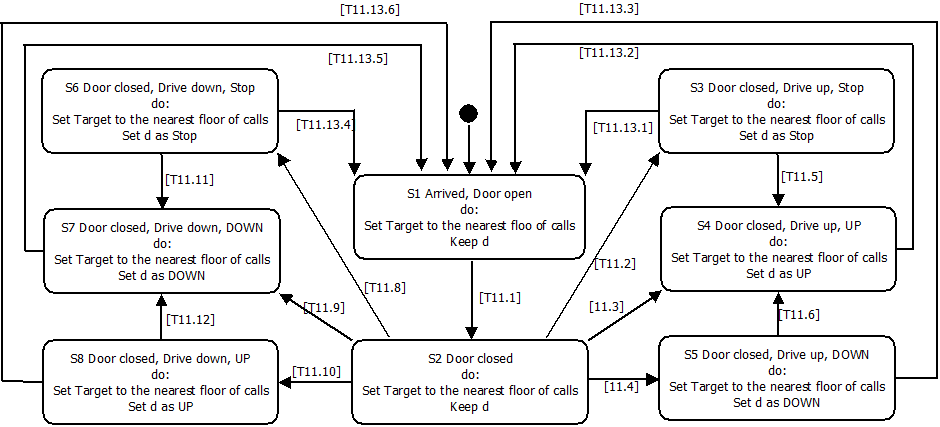
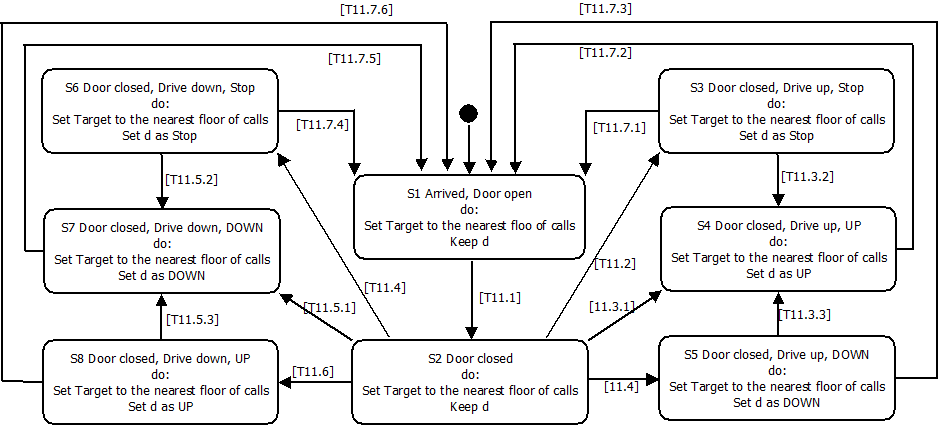
add dispatcher guard conditions

diff --git a/reqs/requirements2.html b/reqs/requirements2.html
@@ -4509,14 +4509,70 @@
         <tr>
           <td valign="top">T11.2<br>
           </td>
-          <td valign="top">Any mDoorClosed[b, r] &#8592;false AND any
-            mAtFloor[f, b]&nbsp; &#8592; true </td>
+          <td valign="top">CurrentDirection &#8592; UP AND&nbsp; mCarCall[f,
+            b] &#8592; true AND all other mCarCall &#8592; false<br>
+          </td>
         </tr>
         <tr>
           <td valign="top">T11.3.*<br>
           </td>
-          <td valign="top">Any mDoorClosed[b, r] &#8592; false AND all
-            mAtFloor[f, b] &#8592; false</td>
+          <td valign="top">CurrentDIrection &#8592; UP AND&nbsp; <br>
+            ((mCarCall[f1, b1] &#8592; true AND (mCarCall[f2, b2] &#8592; true OR
+            mHallCall[f2, b2, *] &#8592; true) AND CurrentFloor &lt;= f1 &lt;
+            f2) OR<br>
+            (mHallCall[f1, b1, UP] &#8592; true AND CurrentFloor &lt;= f1))<br>
+          </td>
+        </tr>
+        <tr>
+          <td valign="top">T11.4<br>
+          </td>
+          <td valign="top">CurrentDirection &#8592; UP AND&nbsp; <br>
+            ((mCarCall[f1, b1] &#8592; true AND (mCarCall[f2, b2] &#8592; true OR
+            mHallCall[f2, b2, *] &#8592; true) AND f2 &lt; CurrentFloor &lt;=
+            f1 AND other mCarCall or mHallCall above CurrentFloor &#8592;
+            false) OR<br>
+            (mCarCall[f1, b1] &#8592; true AND mHallCall[f2, b2, DOWN] &#8592; true)
+            AND f2 &lt; f1 AND f1 &gt; CurrentFloor AND other mCarCall
+            or mHallCall above CurrentFloor &#8592; false) OR<br>
+            (mHallCall[f1, b1, DOWN] &#8592; true AND CurrentFloor &lt;= f1
+            AND other mCarCall or mHallCall above CurrentFloor &#8592; false))<br>
+          </td>
+        </tr>
+        <tr>
+          <td valign="top">T11.5<br>
+          </td>
+          <td valign="top">CurrentDirection &#8592; DOWN AND mCarCall[f, b] &#8592;
+            true AND all other mCarCall &#8592; false</td>
+        </tr>
+        <tr>
+          <td valign="top">T11.6.*<br>
+          </td>
+          <td valign="top">CurrentDIrection &#8592; DOWN AND&nbsp; <br>
+            ((mCarCall[f1, b1] &#8592; true AND (mCarCall[f2, b2] &#8592; true OR
+            mHallCall[f2, b2, *] &#8592; true) AND CurrentFloor &gt;= f1 &gt;
+            f2) OR<br>
+            (mHallCall[f1, b1, DOWN] &#8592; true AND CurrentFloor &gt;= f1))</td>
+        </tr>
+        <tr>
+          <td valign="top">T11.7<br>
+          </td>
+          <td valign="top">CurrentDirection &#8592; DOWN AND&nbsp; <br>
+            ((mCarCall[f1, b1] &#8592; true AND (mCarCall[f2, b2] &#8592; true OR
+            mHallCall[f2, b2, *] &#8592; true) AND f2 &gt; CurrentFloor &gt;=
+            f1 AND other mCarCall or mHallCall below CurrentFloor &#8592;
+            false) OR<br>
+            (mCarCall[f1, b1] &#8592; true AND mHallCall[f2, b2, UP] &#8592; true)
+            AND f2 &gt; f1 AND f1 &lt; CurrentFloor AND other mCarCall
+            or mHallCall below CurrentFloor &#8592; false) OR<br>
+            (mHallCall[f1, b1, UP] &#8592; true AND CurrentFloor &gt;= f1 AND
+            other mCarCall or mHallCall below CurrentFloor &#8592; false))</td>
+        </tr>
+        <tr>
+          <td valign="top">T11.8.*<br>
+          </td>
+          <td valign="top">mDriveSpeed &#8592; (0, STOP) AND any
+            mDoorClosed[b,r] &#8592; false<br>
+          </td>
         </tr>
       </tbody>
     </table>
